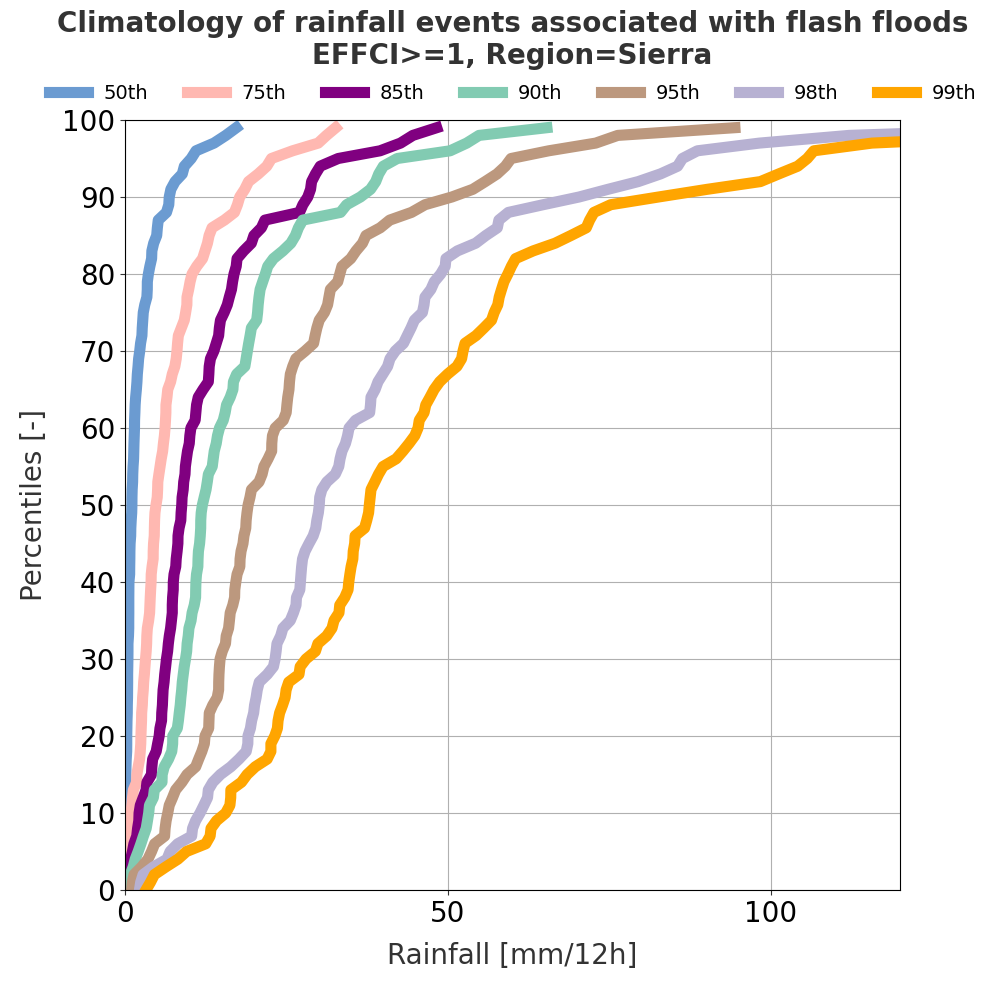
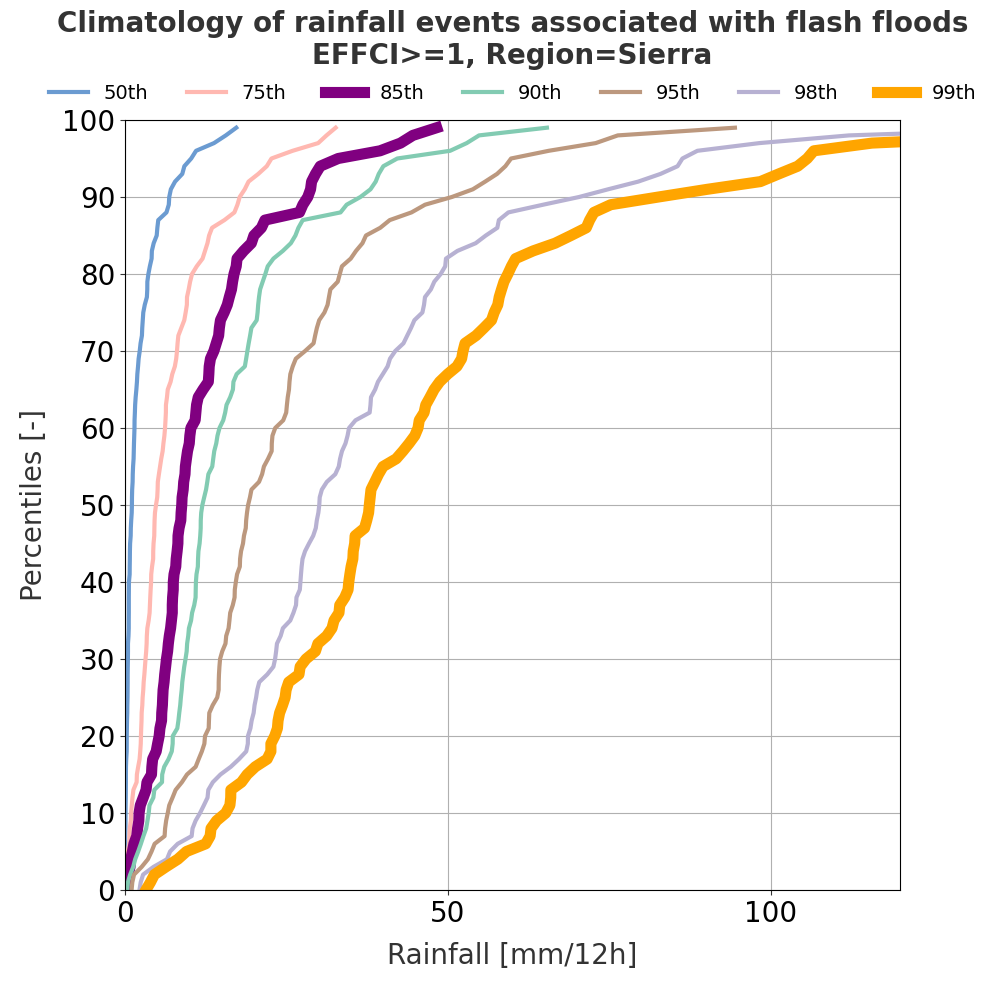
Removed the line at the 25th percentiles in the climatologies of rainfall totals associated with flash floods.

diff --git a/Scripts/Processed/10_Plot_Climate_Rain_FR.py b/Scripts/Processed/10_Plot_Climate_Rain_FR.py
@@ -62,7 +62,7 @@ for EFFCI in EFFCI_list:
                   if MagnitudeInPerc_Rain_Event_FR == 85 or MagnitudeInPerc_Rain_Event_FR == 99:
                         LineWidth = 8
                   else:
-                        LineWidth = 8
+                        LineWidth = 3
                   ax.plot(climate_rain_FR, percentiles, color=MagnitudeInPerc_Rain_Event_FR_colours, linewidth=LineWidth, label=str(MagnitudeInPerc_Rain_Event_FR) + "th")
             
             # Setting the plot metadata - Normal plot
